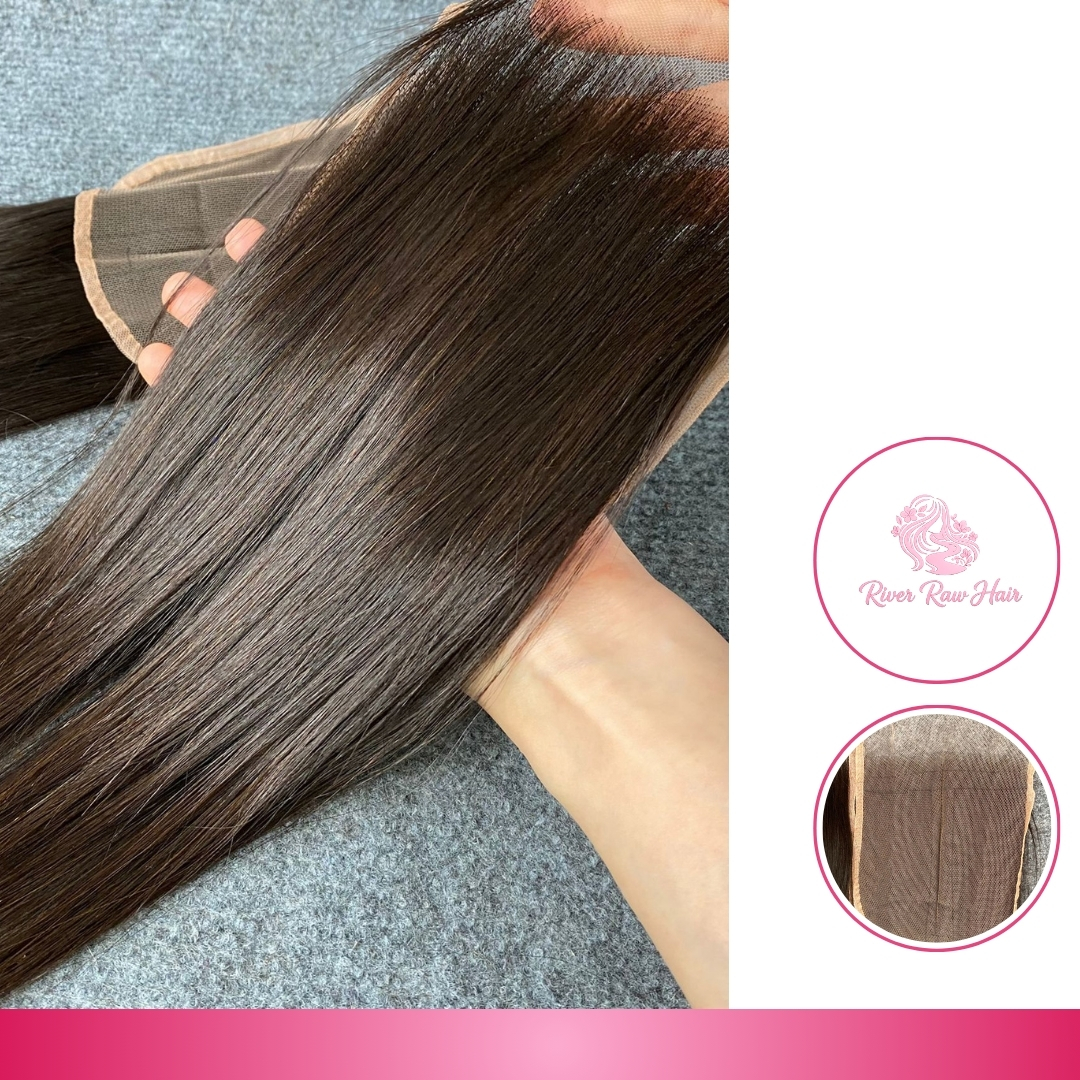
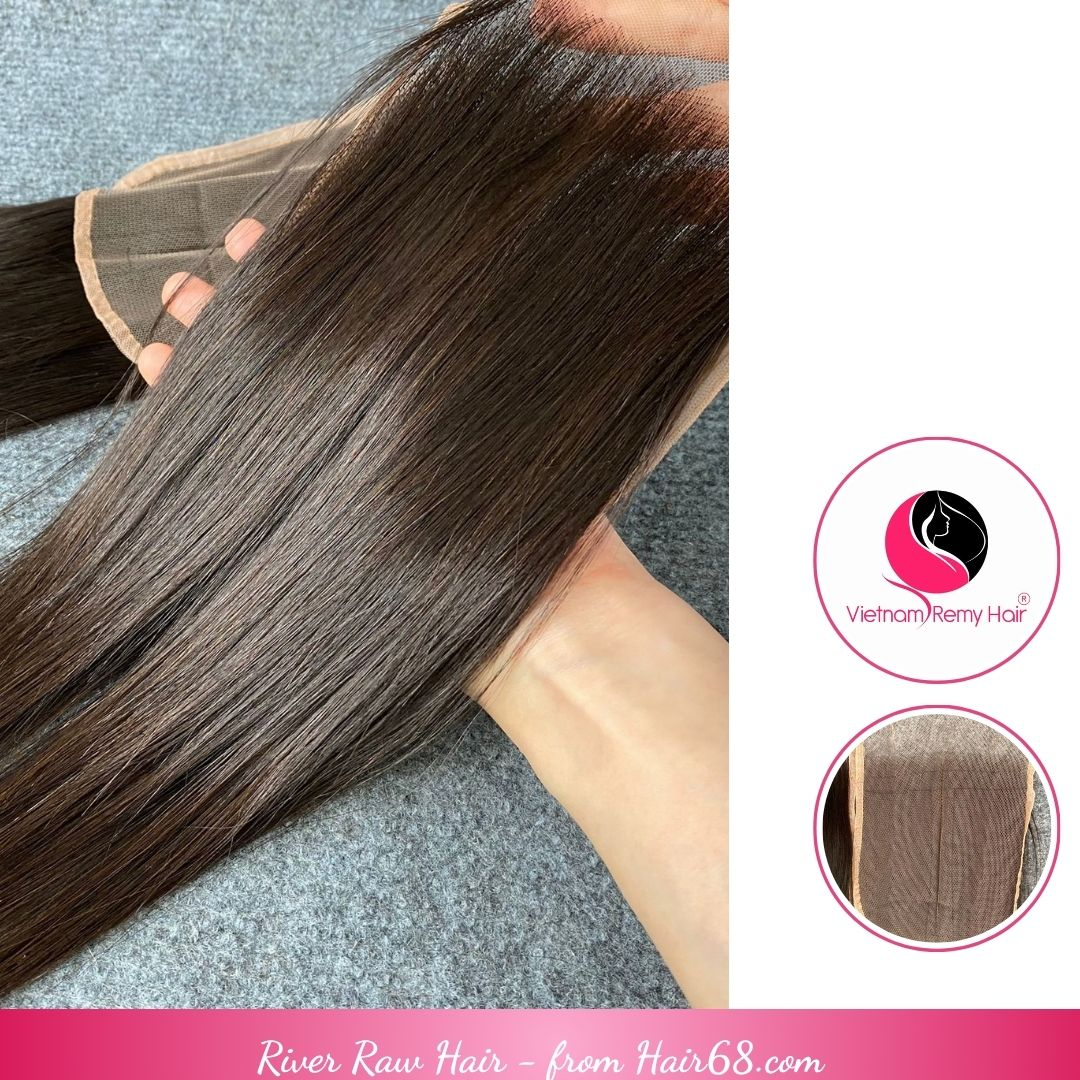
polish homepage cards section

Changed region(s): [[0.2139, 0.9472, 0.7639, 1.0], [0.7944, 0.4278, 0.9472, 0.5806]]

diff --git a/app/layout.tsx b/app/layout.tsx
@@ -4,9 +4,9 @@ import { Header } from '@/components/header';
 import { Footer } from '@/components/footer';
 
 export const metadata: Metadata = {
-  title: 'River Raw Hair | Premium Vietnamese Human Hair Supplier',
+  title: 'River Raw Hair | belongs to Vietnam Remy Hair Co., Ltd.- Premium Vietnamese Human Hair Supplier',
   description:
-    'River Raw Hair is a premium Vietnamese human hair supplier for wholesale buyers, salons, resellers, and beauty brands.',
+    'River Raw Hair (belongs to Vietnam Remy Hair Co., Ltd.,- Hair 68) is a premium Vietnamese human hair supplier for wholesale buyers, salons, resellers, and beauty brands.',
 };
 
 export default function RootLayout({ children }: Readonly<{ children: React.ReactNode }>) {
